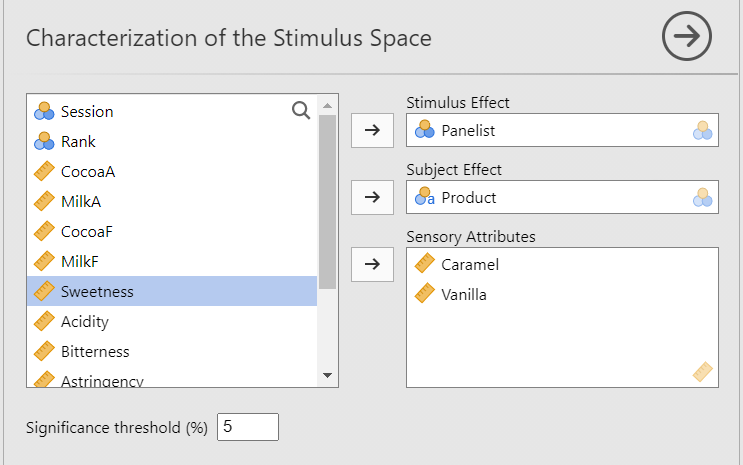
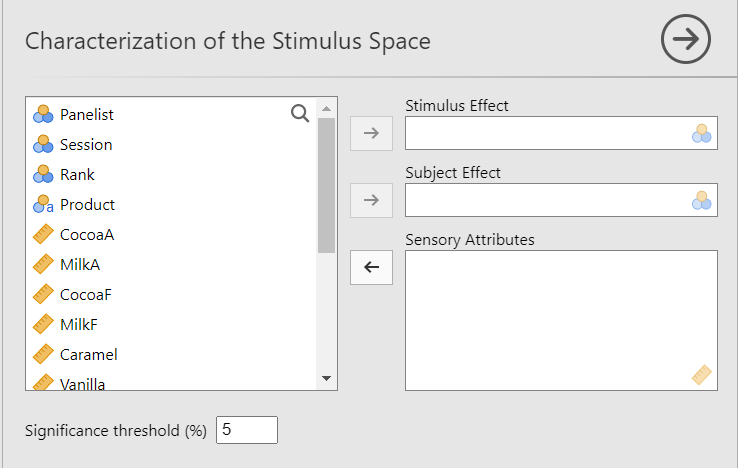
SEDA

Changed region(s): [[0.0312, 0.0, 1.0, 1.0], [0.0312, 0.0602, 0.5921, 0.1204], [0.0312, 0.8731, 0.374, 0.9333]]

diff --git a/charstim.html b/charstim.html
@@ -382,20 +382,34 @@ fixed list of attributes.</p>
 and only has 4 fields you need to worry about. <br><br />
 <img src="images/charstim2.png" width="85%" style="display: block; margin: auto auto auto 0;" /></p>
 <p>Firstly, you put the variable <strong><em>Stimulus
-Effect</em></strong> , a variable that… <br><br /></p>
-</div>
-<div id="potential-issues" class="section level2">
-<h2><strong>Potential issue(s)</strong></h2>
-<p>For the analysis to run smoothly, make sure that… <br><br /></p>
+Effect</em></strong> , a categorical variable that refers to the product
+that you want to study. Then, you put the <strong><em>Subject
+Effect</em></strong>, the main subject that evaluates the product. The
+<strong><em>Sensory Attributes</em></strong> are the fixed attributes of
+your choice that helps in the description of the stimulus. Lastly, the
+<strong><em>Significiance threshold</em></strong> option set the
+threshold under which the sensory attributes describes significantly the
+stimulus. <br><br /></p>
 </div>
 <div id="example" class="section level2">
 <h2><strong>Example</strong></h2>
-<p>For this example, we will be using gain the chocolate data set
+<p>For this example, we will be using the chocolate data set “sensochoc”
 (available with SEDA).</p>
-<p><img src="images/charstim5.png" width="90%" style="display: block; margin: auto auto auto 0;" /></p>
-<p><img src="images/charstim3.png" width="60%" style="display: block; margin: auto auto auto 0;" />
+<p><img src="images/charstim5.png" width="90%" style="display: block; margin: auto auto auto 0;" />
 <br><br /></p>
-<p><img src="images/charstim4.png" width="70%" style="display: block; margin: auto auto auto 0;" />
+<p><img src="images/charstim3.png" width="80%" style="display: block; margin: auto auto auto 0;" />
+<br><br /></p>
+<p><img src="images/charstim4.png" width="50%" style="display: block; margin: auto auto auto 0;" /></p>
+<p>This output highlights the sensory attributes for which products are
+differentiated at a significance threshold of
+<strong><em>0.05</em></strong>. This list of attributes is sorted from
+the most significant to the less (but still) significant. We see that
+products have been extremely differentiated by the panelists: it seems
+that some attributes, such as <strong><em>Bitterness</em></strong> or
+<strong><em>Caramel</em></strong>, are really specific to some products
+(according to the value of the <strong><em>“Vtest”</em></strong>).
+<br><br /></p>
+<p><img src="images/charstim6.png" width="90%" style="display: block; margin: auto auto auto 0;" />
 <br><br /></p>
 </div>
 

diff --git a/repstim.html b/repstim.html
@@ -394,8 +394,8 @@ list of attributes.</p>
 </div>
 <div id="example" class="section level2">
 <h2><strong>Example</strong></h2>
-<p>For this example, we will be using gain the chocolate data set
-(available with SEDA).</p>
+<p>For this example, we will be using again the chocolate data set
+“sensochoc” (available with SEDA).</p>
 <p><img src="images/charstim5.png" width="90%" style="display: block; margin: auto auto auto 0;" />
 <br><br /></p>
 <p><img src="images/repstim7.png" width="95%" style="display: block; margin: auto auto auto 0;" />
